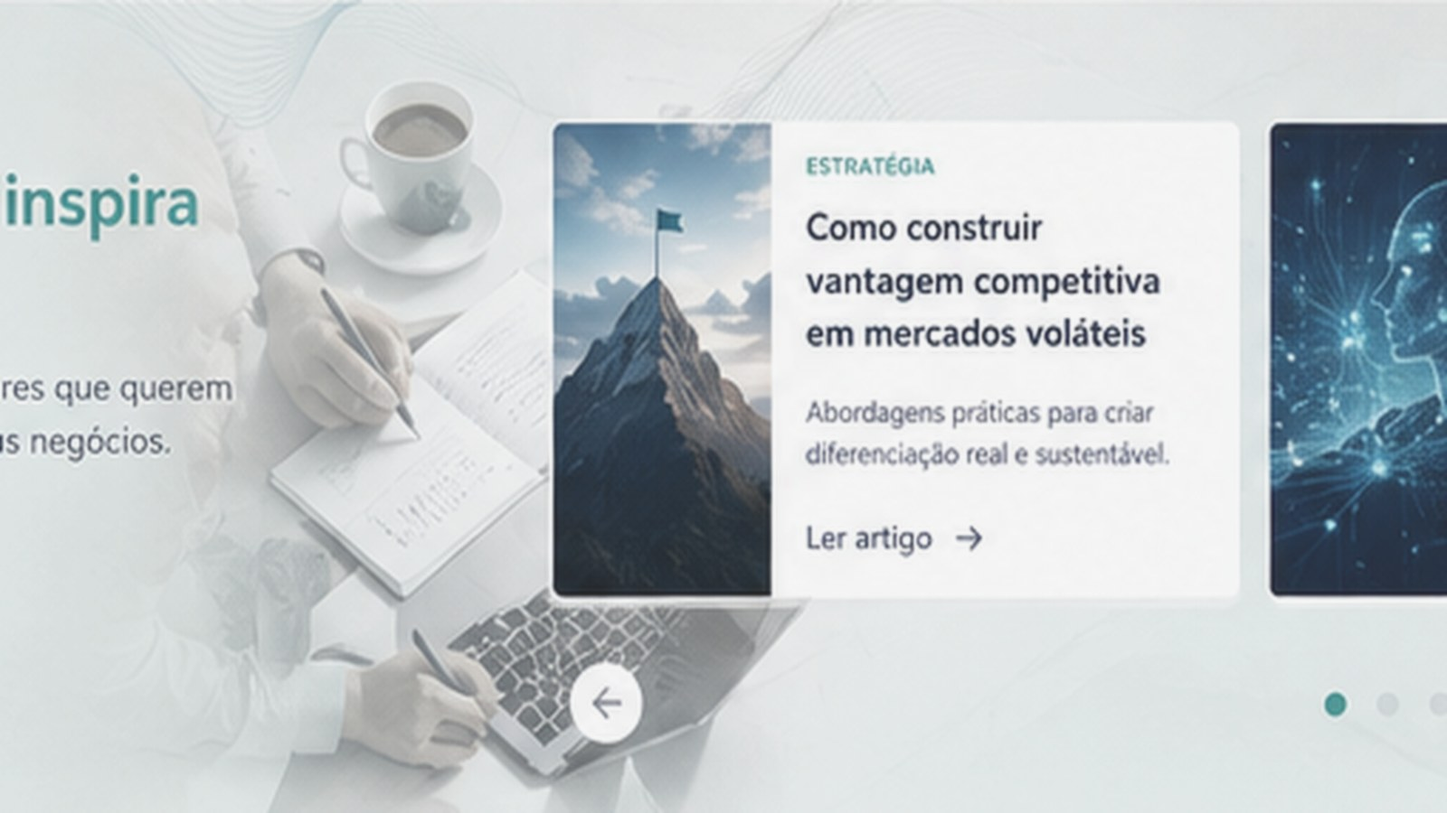
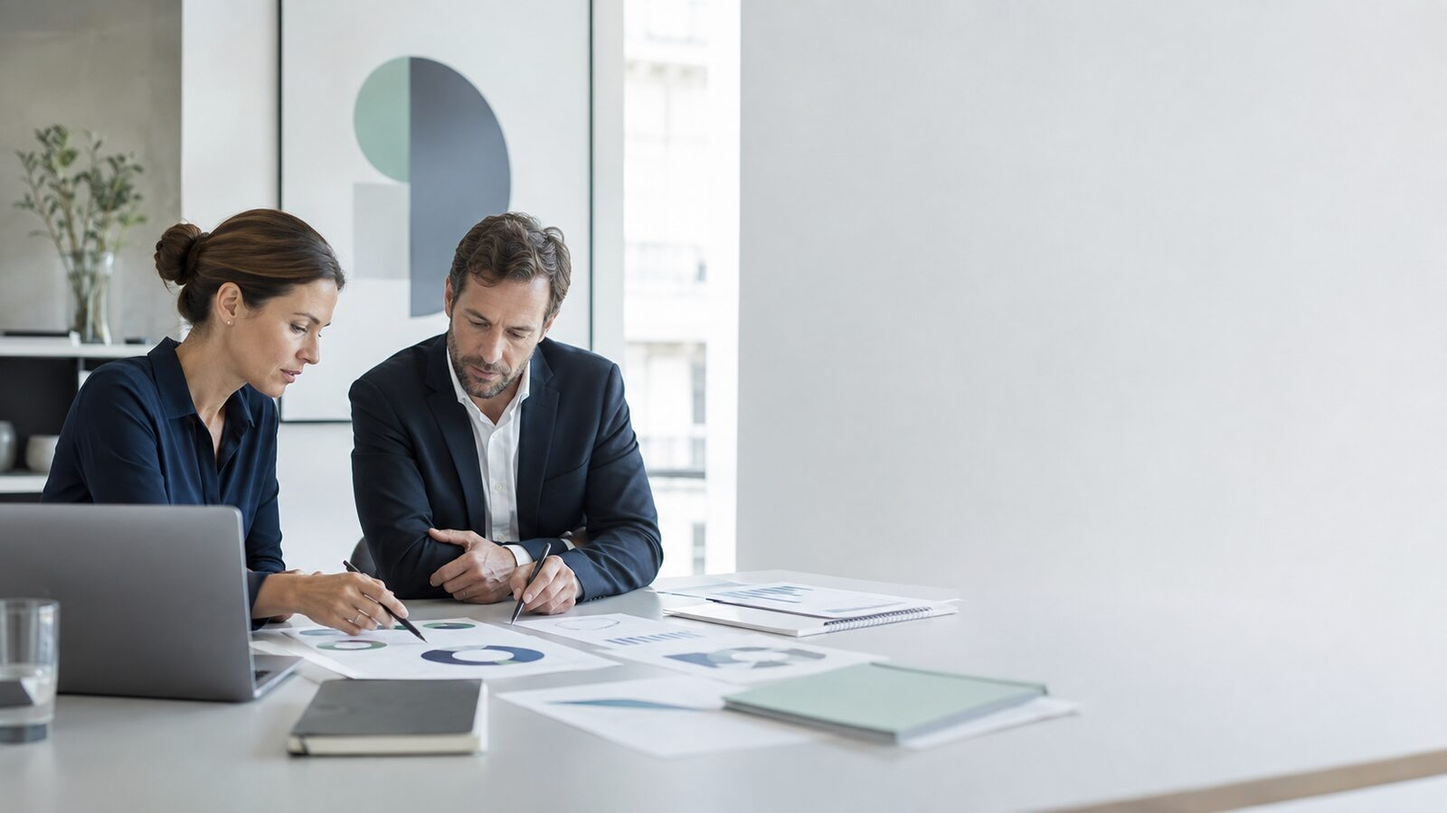
Polir posicionamento e fundos corporativos do site v1.4.3

diff --git a/script.js b/script.js
@@ -144,6 +144,8 @@ const translations = {
     "Obrigada pelo contacto. Este formulário está preparado para futura integração com o CRM NEXA360.": "Thank you for contacting us. This form is ready for future integration with NEXA360 CRM.",
     "Ajudamos micro, pequenas e médias empresas a diagnosticar problemas, organizar processos e transformar decisões em crescimento sustentável — combinando estratégia, tecnologia e valor humano.": "We help micro, small, and medium-sized businesses diagnose problems, organise processes, and turn decisions into sustainable growth — combining strategy, technology, and human value.",
     "Conhecer o Diagnóstico 360°": "Explore the 360° Diagnosis",
+    "Conhecer o Programa Empresas Fundadoras": "Explore the Founding Companies Programme",
+    "Explorar o Diagnóstico 360°": "Explore the 360° Diagnosis",
     "Candidatar a minha empresa": "Apply with my company",
     "Manifestar interesse": "Register interest",
     "Manifestar interesse na edição fundadora": "Register interest in the founding edition",
@@ -194,6 +196,8 @@ const translations = {
     "Conclusão em 15 dias úteis": "Completion within 15 business days",
     "Entrega integral do Diagnóstico 360°": "Full delivery of the 360° Diagnosis",
     "Candidatura sem compromisso": "No-obligation application",
+    "Depois das três vagas:": "After the three places:",
+    "as empresas interessadas poderão integrar a lista de espera ou manifestar interesse numa edição posterior, sem qualquer compromisso.": "interested companies may join the waiting list or register interest in a later edition, with no commitment.",
     "Projetos e soluções": "Projects and solutions",
     "Construímos evidência com transparência — sem apresentar conceitos como resultados de clientes.": "We build evidence transparently — without presenting concepts as client results.",
     "Demonstração tecnológica": "Technology demonstration",
@@ -203,17 +207,17 @@ const translations = {
     "Explorar demonstração": "Explore the demonstration",
     "Conversar sobre internacionalização": "Discuss internationalisation",
     "Ver Diagnóstico 360°": "View the 360° Diagnosis",
-    "Compromissos NEXA360": "NEXA360 Commitments",
-    "Confiança constrói-se com critérios claros antes de qualquer projeto começar.": "Trust is built through clear criteria before any project begins.",
-    "Estabelecemos expectativas, limites e responsabilidades desde a primeira conversa.": "We establish expectations, boundaries, and responsibilities from the first conversation.",
+    "Como trabalhamos com transparência": "How we work transparently",
+    "Rigor significa tornar claros o contexto, os critérios e os limites.": "Rigour means making the context, criteria, and boundaries clear.",
+    "Reunimos aqui os princípios que orientam as estimativas, a informação empresarial e qualquer futura relação comercial.": "Here we bring together the principles that guide estimates, business information, and any future commercial relationship.",
+    "Enquadramento claro": "Clear context",
+    "A NEXA360 é um projeto empresarial em preparação, com abertura oficial prevista para depois de novembro de 2026.": "NEXA360 is a business project in preparation, with its official launch planned for after November 2026.",
+    "Estimativas verificáveis": "Verifiable estimates",
+    "Separamos factos, hipóteses e estimativas. Os impactos financeiros são calculados com pressupostos explícitos e dados fornecidos pela empresa.": "We distinguish facts, hypotheses, and estimates. Financial impacts are calculated using explicit assumptions and data provided by the company.",
     "Confidencialidade por princípio": "Confidentiality by principle",
     "Informação empresarial não é divulgada nem transformada em caso de estudo sem autorização expressa.": "Business information is neither disclosed nor turned into a case study without explicit authorisation.",
-    "Escopo e investimento definidos": "Defined scope and investment",
-    "Entregáveis, prazo, responsabilidades e valor são acordados antes do início do trabalho.": "Deliverables, timeline, responsibilities, and value are agreed before work begins.",
-    "Recomendações fundamentadas": "Evidence-based recommendations",
-    "Separamos evidência, hipótese e decisão para evitar promessas vagas ou conclusões sem suporte.": "We distinguish evidence, hypotheses, and decisions to avoid vague promises or unsupported conclusions.",
-    "Autonomia para a empresa": "Autonomy for the company",
-    "O objetivo é deixar prioridades, ferramentas e critérios que a equipa consiga compreender e utilizar.": "The goal is to leave priorities, tools, and criteria that the team can understand and use.",
+    "Escopo e autorização definidos": "Defined scope and authorisation",
+    "Entregáveis, prazo, responsabilidades, investimento e utilização de dados são acordados antes do início do trabalho.": "Deliverables, timeline, responsibilities, investment, and data use are agreed before work begins.",
     "Como começamos": "How we begin",
     "Pedido inicial": "Initial request",
     "Verificação de enquadramento": "Fit assessment",
@@ -232,6 +236,10 @@ const translations = {
     "Quanto custa à sua empresa adiar decisões importantes?": "How much does postponing important decisions cost your company?",
     "Processos manuais, oportunidades sem acompanhamento, retrabalho e decisões sem indicadores consomem tempo, margem e capacidade de crescimento.": "Manual processes, unmonitored opportunities, rework, and decisions without indicators consume time, margin, and growth capacity.",
     "O impacto varia em cada empresa. Não presumimos um valor: ajudamos a medi-lo com dados e critérios claros.": "The impact varies from company to company. We do not assume a figure: we help measure it using data and clear criteria.",
+    "Exemplo meramente ilustrativo": "Purely illustrative example",
+    "Se cinco pessoas perderem duas horas por semana em tarefas repetidas ou retrabalho, considerando um custo médio estimado de 20 € por hora e 48 semanas de atividade:": "If five people lose two hours per week to repetitive tasks or rework, assuming an estimated average cost of €20 per hour and 48 working weeks:",
+    "5 × 2 h × 20 € × 48 semanas = 9.600 € por ano": "5 × 2 h × €20 × 48 weeks = €9,600 per year",
+    "Esta simulação não representa um resultado garantido nem presume a realidade da sua empresa. Os valores devem ser substituídos por dados reais da organização.": "This simulation is not a guaranteed result and does not assume your company’s circumstances. The figures should be replaced with the organisation’s actual data.",
     "Medir prioridades no Diagnóstico 360°": "Measure priorities with the 360° Diagnosis",
     "Tempo absorvido por tarefas repetitivas": "Time absorbed by repetitive tasks",
     "Oportunidades sem acompanhamento consistente": "Opportunities without consistent follow-up",
@@ -357,6 +365,8 @@ const translations = {
     "Obrigada pelo contacto. Este formulário está preparado para futura integração com o CRM NEXA360.": "Gracias por ponerse en contacto. Este formulario está preparado para su futura integración con el CRM NEXA360.",
     "Ajudamos micro, pequenas e médias empresas a diagnosticar problemas, organizar processos e transformar decisões em crescimento sustentável — combinando estratégia, tecnologia e valor humano.": "Ayudamos a micro, pequeñas y medianas empresas a diagnosticar problemas, organizar procesos y transformar decisiones en crecimiento sostenible, combinando estrategia, tecnología y valor humano.",
     "Conhecer o Diagnóstico 360°": "Conocer el Diagnóstico 360°",
+    "Conhecer o Programa Empresas Fundadoras": "Conocer el Programa Empresas Fundadoras",
+    "Explorar o Diagnóstico 360°": "Explorar el Diagnóstico 360°",
     "Candidatar a minha empresa": "Presentar mi empresa",
     "Manifestar interesse": "Manifestar interés",
     "Manifestar interesse na edição fundadora": "Manifestar interés en la edición fundadora",
@@ -407,6 +417,8 @@ const translations = {
     "Conclusão em 15 dias úteis": "Finalización en 15 días laborables",
     "Entrega integral do Diagnóstico 360°": "Entrega completa del Diagnóstico 360°",
     "Candidatura sem compromisso": "Solicitud sin compromiso",
+    "Depois das três vagas:": "Después de las tres plazas:",
+    "as empresas interessadas poderão integrar a lista de espera ou manifestar interesse numa edição posterior, sem qualquer compromisso.": "las empresas interesadas podrán incorporarse a la lista de espera o manifestar interés en una edición posterior, sin compromiso.",
     "Projetos e soluções": "Proyectos y soluciones",
     "Construímos evidência com transparência — sem apresentar conceitos como resultados de clientes.": "Construimos evidencias con transparencia, sin presentar conceptos como resultados de clientes.",
     "Demonstração tecnológica": "Demostración tecnológica",
@@ -416,17 +428,17 @@ const translations = {
     "Explorar demonstração": "Explorar la demostración",
     "Conversar sobre internacionalização": "Hablar sobre internacionalización",
     "Ver Diagnóstico 360°": "Ver el Diagnóstico 360°",
-    "Compromissos NEXA360": "Compromisos NEXA360",
-    "Confiança constrói-se com critérios claros antes de qualquer projeto começar.": "La confianza se construye con criterios claros antes de que comience cualquier proyecto.",
-    "Estabelecemos expectativas, limites e responsabilidades desde a primeira conversa.": "Establecemos expectativas, límites y responsabilidades desde la primera conversación.",
+    "Como trabalhamos com transparência": "Cómo trabajamos con transparencia",
+    "Rigor significa tornar claros o contexto, os critérios e os limites.": "El rigor significa aclarar el contexto, los criterios y los límites.",
+    "Reunimos aqui os princípios que orientam as estimativas, a informação empresarial e qualquer futura relação comercial.": "Aquí reunimos los principios que orientan las estimaciones, la información empresarial y cualquier futura relación comercial.",
+    "Enquadramento claro": "Contexto claro",
+    "A NEXA360 é um projeto empresarial em preparação, com abertura oficial prevista para depois de novembro de 2026.": "NEXA360 es un proyecto empresarial en preparación, con apertura oficial prevista para después de noviembre de 2026.",
+    "Estimativas verificáveis": "Estimaciones verificables",
+    "Separamos factos, hipóteses e estimativas. Os impactos financeiros são calculados com pressupostos explícitos e dados fornecidos pela empresa.": "Separamos hechos, hipótesis y estimaciones. Los impactos financieros se calculan con supuestos explícitos y datos facilitados por la empresa.",
     "Confidencialidade por princípio": "Confidencialidad por principio",
     "Informação empresarial não é divulgada nem transformada em caso de estudo sem autorização expressa.": "La información empresarial no se divulga ni se convierte en caso de estudio sin autorización expresa.",
-    "Escopo e investimento definidos": "Alcance e inversión definidos",
-    "Entregáveis, prazo, responsabilidades e valor são acordados antes do início do trabalho.": "Los entregables, el plazo, las responsabilidades y el valor se acuerdan antes del inicio del trabajo.",
-    "Recomendações fundamentadas": "Recomendaciones fundamentadas",
-    "Separamos evidência, hipótese e decisão para evitar promessas vagas ou conclusões sem suporte.": "Separamos evidencia, hipótesis y decisión para evitar promesas vagas o conclusiones sin respaldo.",
-    "Autonomia para a empresa": "Autonomía para la empresa",
-    "O objetivo é deixar prioridades, ferramentas e critérios que a equipa consiga compreender e utilizar.": "El objetivo es dejar prioridades, herramientas y criterios que el equipo pueda comprender y utilizar.",
+    "Escopo e autorização definidos": "Alcance y autorización definidos",
+    "Entregáveis, prazo, responsabilidades, investimento e utilização de dados são acordados antes do início do trabalho.": "Los entregables, el plazo, las responsabilidades, la inversión y el uso de los datos se acuerdan antes del inicio del trabajo.",
     "Como começamos": "Cómo comenzamos",
     "Pedido inicial": "Solicitud inicial",
     "Verificação de enquadramento": "Evaluación de adecuación",
@@ -445,6 +457,10 @@ const translations = {
     "Quanto custa à sua empresa adiar decisões importantes?": "¿Cuánto le cuesta a su empresa posponer decisiones importantes?",
     "Processos manuais, oportunidades sem acompanhamento, retrabalho e decisões sem indicadores consomem tempo, margem e capacidade de crescimento.": "Los procesos manuales, las oportunidades sin seguimiento, el retrabajo y las decisiones sin indicadores consumen tiempo, margen y capacidad de crecimiento.",
     "O impacto varia em cada empresa. Não presumimos um valor: ajudamos a medi-lo com dados e critérios claros.": "El impacto varía en cada empresa. No presuponemos una cifra: ayudamos a medirlo con datos y criterios claros.",
+    "Exemplo meramente ilustrativo": "Ejemplo meramente ilustrativo",
+    "Se cinco pessoas perderem duas horas por semana em tarefas repetidas ou retrabalho, considerando um custo médio estimado de 20 € por hora e 48 semanas de atividade:": "Si cinco personas pierden dos horas por semana en tareas repetitivas o retrabajo, considerando un coste medio estimado de 20 € por hora y 48 semanas de actividad:",
+    "5 × 2 h × 20 € × 48 semanas = 9.600 € por ano": "5 × 2 h × 20 € × 48 semanas = 9.600 € al año",
+    "Esta simulação não representa um resultado garantido nem presume a realidade da sua empresa. Os valores devem ser substituídos por dados reais da organização.": "Esta simulación no representa un resultado garantizado ni presupone la realidad de su empresa. Los valores deben sustituirse por datos reales de la organización.",
     "Medir prioridades no Diagnóstico 360°": "Medir prioridades con el Diagnóstico 360°",
     "Tempo absorvido por tarefas repetitivas": "Tiempo absorbido por tareas repetitivas",
     "Oportunidades sem acompanhamento consistente": "Oportunidades sin seguimiento consistente",
@@ -471,6 +487,7 @@ const attributeTranslations = {
     "Conhecer o Diagnóstico 360°": "Explore the 360° Diagnosis"
     ,"Fechar informação legal": "Close legal information"
     ,"Valores NEXA360": "NEXA360 values"
+    ,"Exemplo ilustrativo do custo da inércia": "Illustrative example of the cost of inaction"
   },
   "es": {
     "NEXA360 — início": "NEXA360 — inicio",
@@ -487,6 +504,7 @@ const attributeTranslations = {
     "Conhecer o Diagnóstico 360°": "Conocer el Diagnóstico 360°"
     ,"Fechar informação legal": "Cerrar información legal"
     ,"Valores NEXA360": "Valores NEXA360"
+    ,"Exemplo ilustrativo do custo da inércia": "Ejemplo ilustrativo del coste de la inacción"
   }
 };
 const pageMeta = {

diff --git a/index.html b/index.html
@@ -13,7 +13,7 @@
   <link rel="manifest" href="site.webmanifest">
   <link rel="stylesheet" href="styles.css">
   <title>NEXA360 — Evolução com Valor Humano</title>
-  <!-- Website institucional v1.4.2 — custo da inércia com estimativa responsável -->
+  <!-- Website institucional v1.4.3 — polimento estratégico e transparência consolidada -->
 </head>
 <body>
   <svg class="svg-sprite" aria-hidden="true">
@@ -80,8 +80,8 @@
             <h1>O potencial da sua empresa merece mais do que soluções.<span>Merece transformação.</span></h1>
             <p>Ajudamos micro, pequenas e médias empresas a diagnosticar problemas, organizar processos e transformar decisões em crescimento sustentável — combinando estratégia, tecnologia e valor humano.</p>
             <div class="hero-buttons">
-              <button class="button button-primary" type="button" data-scroll="diagnostico">Conhecer o Diagnóstico 360° <svg><use href="#i-arrow"/></svg></button>
-              <button class="button button-ghost" type="button" data-scroll="fundadoras"><svg><use href="#i-message"/></svg> Manifestar interesse</button>
+              <button class="button button-primary" type="button" data-scroll="fundadoras">Conhecer o Programa Empresas Fundadoras <svg><use href="#i-arrow"/></svg></button>
+              <button class="button button-text" type="button" data-scroll="diagnostico">Explorar o Diagnóstico 360° <svg><use href="#i-arrow"/></svg></button>
             </div>
             <div class="trust-line"><svg><use href="#i-shield"/></svg> Estratégia de alto nível, pensada para a realidade das PME.</div>
           </div>
@@ -119,6 +119,12 @@
             <h2 id="inertia-title">Quanto custa à sua empresa adiar decisões importantes?</h2>
             <p>Processos manuais, oportunidades sem acompanhamento, retrabalho e decisões sem indicadores consomem tempo, margem e capacidade de crescimento.</p>
             <p class="inertia-lead">O impacto varia em cada empresa. Não presumimos um valor: ajudamos a medi-lo com dados e critérios claros.</p>
+            <aside class="inertia-example" aria-label="Exemplo ilustrativo do custo da inércia">
+              <span>Exemplo meramente ilustrativo</span>
+              <p>Se cinco pessoas perderem duas horas por semana em tarefas repetidas ou retrabalho, considerando um custo médio estimado de 20 € por hora e 48 semanas de atividade:</p>
+              <strong>5 × 2 h × 20 € × 48 semanas = 9.600 € por ano</strong>
+              <small>Esta simulação não representa um resultado garantido nem presume a realidade da sua empresa. Os valores devem ser substituídos por dados reais da organização.</small>
+            </aside>
             <button class="button button-primary" type="button" data-scroll="diagnostico">Medir prioridades no Diagnóstico 360° <svg><use href="#i-arrow"/></svg></button>
           </div>
           <div class="inertia-signals" data-reveal>
@@ -127,10 +133,6 @@
             <article><svg><use href="#i-network"/></svg><span>Retrabalho e erros evitáveis</span></article>
             <article><svg><use href="#i-chart"/></svg><span>Decisões sem informação consolidada</span></article>
           </div>
-        </div>
-        <div class="container inertia-ethics" data-reveal>
-          <svg><use href="#i-shield"/></svg>
-          <div><strong>Estimativa responsável</strong><p>Separamos factos, estimativas e hipóteses. Qualquer impacto financeiro é calculado apenas com informação fornecida pela empresa e nunca apresentado como perda comprovada sem evidência.</p></div>
         </div>
       </section>
 
@@ -244,6 +246,7 @@
               <li><svg><use href="#i-check"/></svg><span>Candidatura sem compromisso</span></li>
             </ul>
             <button class="button button-primary founders-button" type="button" data-scroll="contacto">Manifestar interesse na edição fundadora <svg><use href="#i-arrow"/></svg></button>
+            <p class="founders-waitlist-note"><strong>Depois das três vagas:</strong> as empresas interessadas poderão integrar a lista de espera ou manifestar interesse numa edição posterior, sem qualquer compromisso.</p>
             <p class="founders-status-note"><svg><use href="#i-shield"/></svg><span>Informação de planeamento: a abertura oficial da atividade e das candidaturas está prevista para depois de novembro de 2026. Até essa data, o programa encontra-se em preparação e recebe apenas manifestações de interesse.</span></p>
           </div>
         </div>
@@ -292,12 +295,12 @@
 
       <section class="section commitments-section" aria-labelledby="commitments-title">
         <div class="container">
-          <div class="section-heading wide" data-reveal><span class="section-kicker">Compromissos NEXA360</span><h2 id="commitments-title">Confiança constrói-se com critérios claros antes de qualquer projeto começar.</h2><p>Estabelecemos expectativas, limites e responsabilidades desde a primeira conversa.</p></div>
+          <div class="section-heading wide" data-reveal><span class="section-kicker">Como trabalhamos com transparência</span><h2 id="commitments-title">Rigor significa tornar claros o contexto, os critérios e os limites.</h2><p>Reunimos aqui os princípios que orientam as estimativas, a informação empresarial e qualquer futura relação comercial.</p></div>
           <div class="commitments-grid">
+            <article data-reveal><svg><use href="#i-target"/></svg><h3>Enquadramento claro</h3><p>A NEXA360 é um projeto empresarial em preparação, com abertura oficial prevista para depois de novembro de 2026.</p></article>
+            <article data-reveal><svg><use href="#i-chart"/></svg><h3>Estimativas verificáveis</h3><p>Separamos factos, hipóteses e estimativas. Os impactos financeiros são calculados com pressupostos explícitos e dados fornecidos pela empresa.</p></article>
             <article data-reveal><svg><use href="#i-shield"/></svg><h3>Confidencialidade por princípio</h3><p>Informação empresarial não é divulgada nem transformada em caso de estudo sem autorização expressa.</p></article>
-            <article data-reveal><svg><use href="#i-target"/></svg><h3>Escopo e investimento definidos</h3><p>Entregáveis, prazo, responsabilidades e valor são acordados antes do início do trabalho.</p></article>
-            <article data-reveal><svg><use href="#i-chart"/></svg><h3>Recomendações fundamentadas</h3><p>Separamos evidência, hipótese e decisão para evitar promessas vagas ou conclusões sem suporte.</p></article>
-            <article data-reveal><svg><use href="#i-users"/></svg><h3>Autonomia para a empresa</h3><p>O objetivo é deixar prioridades, ferramentas e critérios que a equipa consiga compreender e utilizar.</p></article>
+            <article data-reveal><svg><use href="#i-users"/></svg><h3>Escopo e autorização definidos</h3><p>Entregáveis, prazo, responsabilidades, investimento e utilização de dados são acordados antes do início do trabalho.</p></article>
           </div>
           <div class="contact-journey" data-reveal>
             <span>Como começamos</span>

diff --git a/styles.css b/styles.css
@@ -74,6 +74,10 @@ img { max-width: 100%; display: block; }
 .button-primary { color: #051923; background: linear-gradient(135deg, #fff, #8fffc8); box-shadow: 0 18px 40px rgba(33,185,121,.22); }
 .button-primary:hover { box-shadow: 0 22px 55px rgba(33,185,121,.32); }
 .button-ghost { color: #fff; background: rgba(255,255,255,.06); border: 1px solid rgba(255,255,255,.14); }
+.button-text { min-height: 48px; padding: 0 7px; border-radius: 8px; color: #bfe0eb; background: transparent; box-shadow: none; }
+.button-text:hover, .button-text:focus-visible { color: #fff; background: rgba(255,255,255,.045); box-shadow: none; outline: none; }
+.button-text svg { transition: transform .25s ease; }
+.button-text:hover svg, .button-text:focus-visible svg { transform: translateX(4px); }
 .trust-line { margin-top: 25px; color: #83a6b9; display: flex; align-items: center; gap: 9px; font-size: 13px; }
 .trust-line svg { color: var(--mint); }
 .hero-stage { position: relative; height: 560px; display: grid; place-items: center; }
@@ -1208,14 +1212,15 @@ body.modal-open { overflow: hidden; }
 .inertia-copy > p { max-width: 680px; color: var(--muted); font-size: 17px; line-height: 1.72; }
 .inertia-copy .inertia-lead { margin: 18px 0 28px; padding-left: 17px; border-left: 3px solid #1baa78; color: #31556a; font-weight: 720; }
 .inertia-copy .button-primary { color: #fff; background: linear-gradient(135deg, #2279d3, #159a72); }
+.inertia-example { max-width: 690px; margin: 0 0 28px; padding: 23px 24px; border: 1px solid rgba(22,139,105,.18); border-radius: 20px; background: linear-gradient(135deg, rgba(52,127,232,.055), rgba(33,185,121,.085)); box-shadow: 0 16px 40px rgba(16,45,70,.055); }
+.inertia-example > span { display: block; margin-bottom: 10px; color: #168b69; font-size: 10px; font-weight: 850; letter-spacing: .15em; text-transform: uppercase; }
+.inertia-example p { margin: 0; color: #49687a; font-size: 13px; line-height: 1.65; }
+.inertia-example strong { display: block; margin: 14px 0 10px; color: #0f3e51; font-size: clamp(17px, 2vw, 22px); line-height: 1.35; }
+.inertia-example small { display: block; color: #6d8492; font-size: 11px; line-height: 1.55; }
 .inertia-signals { display: grid; grid-template-columns: repeat(2, 1fr); gap: 14px; }
 .inertia-signals article { min-height: 154px; display: flex; flex-direction: column; justify-content: space-between; padding: 24px; border: 1px solid #dce9ed; border-radius: 21px; background: rgba(255,255,255,.84); box-shadow: 0 16px 38px rgba(13,54,73,.06); }
 .inertia-signals svg { width: 28px; height: 28px; color: #168c69; }
 .inertia-signals span { max-width: 210px; color: #1a4055; font-size: 15px; font-weight: 790; line-height: 1.45; }
-.inertia-ethics { position: relative; display: flex; gap: 16px; align-items: flex-start; margin-top: 42px; padding: 20px 24px; border: 1px solid rgba(27,169,120,.2); border-radius: 18px; background: #edf9f4; color: #285c4d; }
-.inertia-ethics > svg { flex: 0 0 auto; width: 24px; height: 24px; color: #16946a; }
-.inertia-ethics strong { display: block; margin-bottom: 5px; color: #14634f; }
-.inertia-ethics p { margin: 0; line-height: 1.6; }
 
 .solution-card-featured { grid-column: span 3; min-height: 230px; display: grid; grid-template-columns: auto auto 1fr auto; gap: 24px; align-items: center; padding-right: 90px; background: linear-gradient(120deg, rgba(52,127,232,.17), rgba(33,185,121,.13)); border-color: rgba(145,255,208,.24); }
 .solution-card-featured .card-number, .solution-card-featured .solution-icon { align-self: center; }
@@ -1255,6 +1260,8 @@ body.modal-open { overflow: hidden; }
 .offer-future { margin: 4px 0 27px; padding-bottom: 25px; border-bottom: 1px solid rgba(255,255,255,.11); color: #a8bec9; font-size: 13px; }
 .founders-offer li { color: #e4eef3; }
 .founders-button { width: 100%; margin-top: 28px; }
+.founders-waitlist-note { margin: 17px 0 0; padding: 15px 16px; border-radius: 14px; color: #d7e7ed; background: rgba(145,255,208,.075); font-size: 12px; line-height: 1.58; }
+.founders-waitlist-note strong { color: var(--mint); }
 .founders-status-note { display: flex; gap: 10px; margin: 18px 0 0; padding-top: 17px; border-top: 1px solid rgba(255,255,255,.11); color: #afc3ce; font-size: 12px; line-height: 1.55; }
 .founders-status-note svg { flex: 0 0 auto; width: 18px; height: 18px; margin-top: 1px; color: var(--mint); }
 
@@ -1279,7 +1286,7 @@ body.modal-open { overflow: hidden; }
   .inertia-signals { grid-template-columns: 1fr; }
   .inertia-signals article { min-height: 120px; }
   .inertia-copy h2 { font-size: 38px; }
-  .inertia-ethics { padding: 18px; }
+  .inertia-example { padding: 19px; }
   .values-experience { margin-top: 55px; }
   .values-strip { grid-template-columns: 1fr; }
   .values-strip button, .values-strip button:nth-child(2n) { min-height: 62px; border-right: 0; border-bottom: 1px solid var(--line); }

diff --git a/README.md b/README.md
@@ -1,17 +1,19 @@
-# NEXA360 Website — versão 1.4.2
+# NEXA360 Website — versão 1.4.3
 
-Revisão técnica pré-publicação do posicionamento estratégico e do Programa Empresas Fundadoras.
+Polimento estratégico após avaliação externa do posicionamento e do Programa Empresas Fundadoras.
 
 - Posicionamento direto para micro, pequenas e médias empresas.
 - Diagnóstico Empresarial 360° apresentado como serviço principal.
 - Oferta organizada em três áreas complementares.
 - Entregáveis, prazo e plano de 90 dias explicitados.
 - Programa Empresas Fundadoras com 3 vagas, condição de 650 € + IVA e prazo de 15 dias úteis.
+- Hierarquia da hero revista: o Programa Empresas Fundadoras é a ação principal e o Diagnóstico 360° permanece como ligação secundária.
+- Continuidade comercial prevista após as três vagas, com lista de espera ou manifestação de interesse numa edição posterior.
 - CRM identificado com transparência como demonstração pública funcional com dados fictícios.
 - Formulário identificado como demonstração até existir integração segura com o CRM privado.
 - Estatuto pré-operacional explicado com transparência: projeto sob responsabilidade de Mônica Cardoso, com abertura oficial prevista para depois de novembro de 2026.
 - Candidaturas substituídas por manifestações de interesse até à abertura da atividade, prevista para depois de novembro de 2026.
-- Compromissos de confidencialidade, escopo, evidência e autonomia apresentados antes do contacto.
+- Notas de rigor reunidas na secção “Como trabalhamos com transparência”, preservando apenas os avisos contextuais indispensáveis.
 - Avisos preliminares de Privacidade, Cookies e Termos acessíveis no rodapé, com referências oficiais.
 - Centro de Conhecimento ampliado para oito artigos completos e multilingues.
 - Conteúdo integral disponível em português, inglês e espanhol.
@@ -23,6 +25,7 @@ Revisão técnica pré-publicação do posicionamento estratégico e do Programa
 - Linguagem pré-operacional alinhada com a abertura oficial da atividade prevista para depois de novembro de 2026.
 - Responsividade e identidade visual NEXA360 preservadas.
 - Nova secção de custo da inércia, com sinais concretos de ineficiência e encaminhamento para o Diagnóstico 360°.
-- Comunicação ética: nenhum prejuízo é presumido e qualquer impacto financeiro depende de dados fornecidos pela própria empresa.
+- Custo da inércia acompanhado por uma simulação ilustrativa com fórmula e pressupostos visíveis.
+- Comunicação ética: nenhum prejuízo é presumido; a simulação não constitui promessa e deve ser substituída por dados reais da empresa.
 
 Abra `index.html` no Edge ou Chrome.
